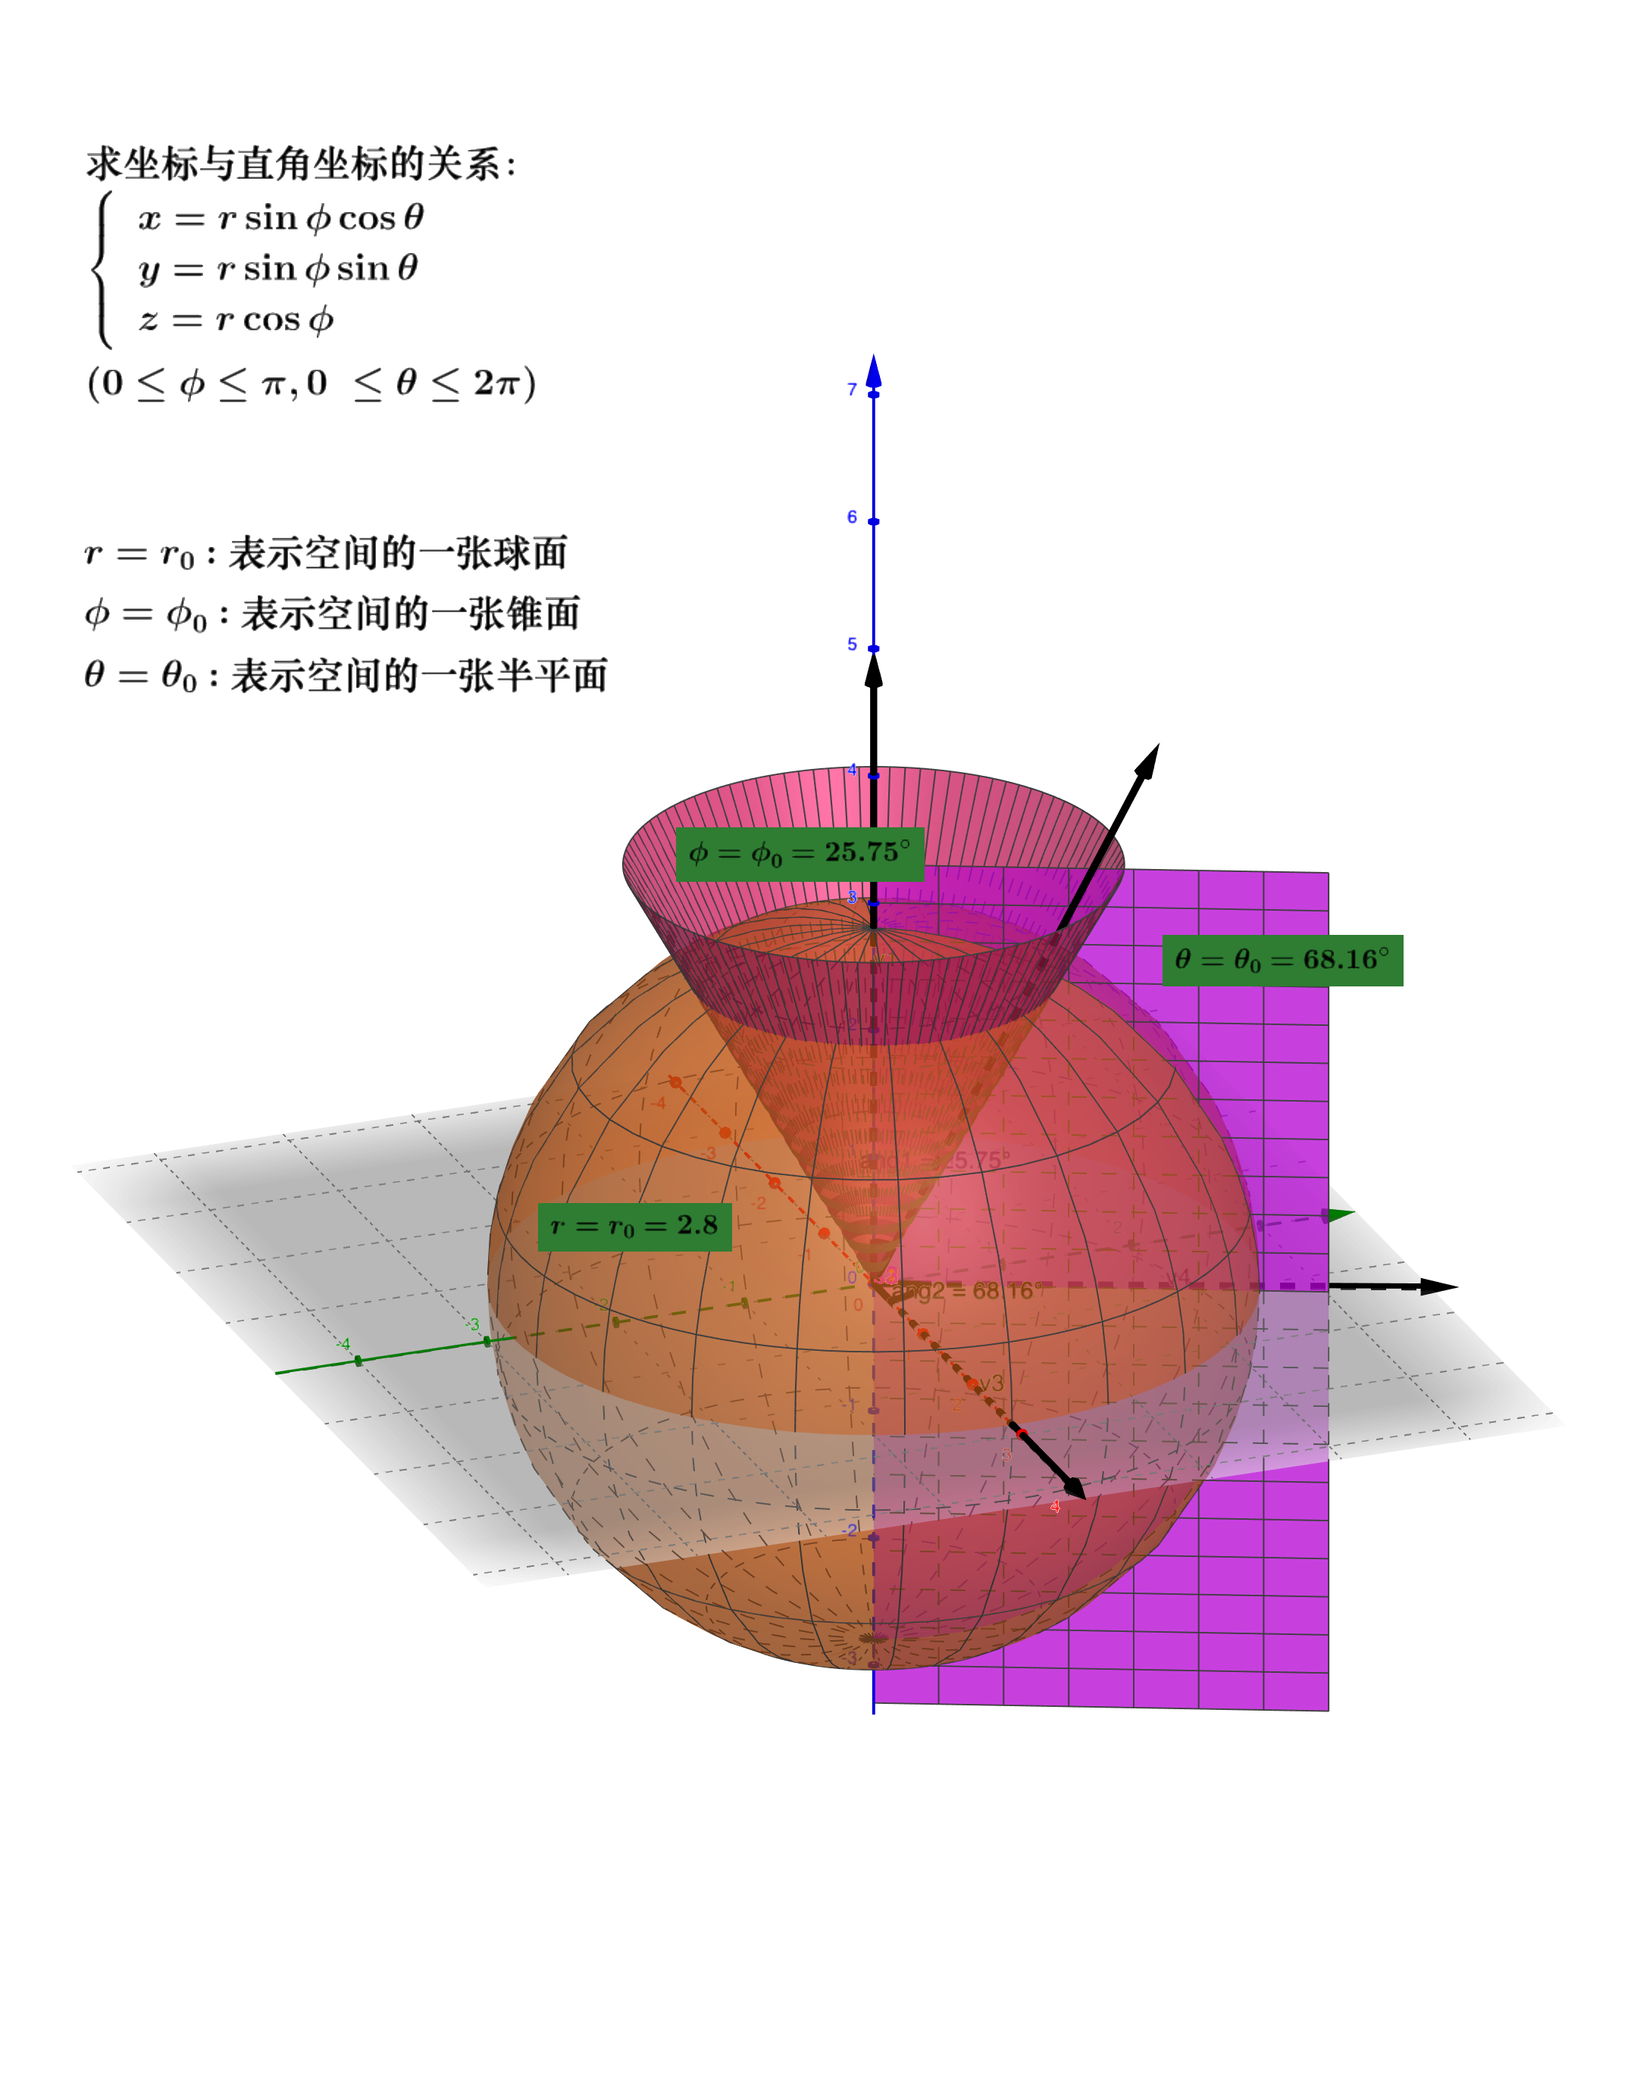
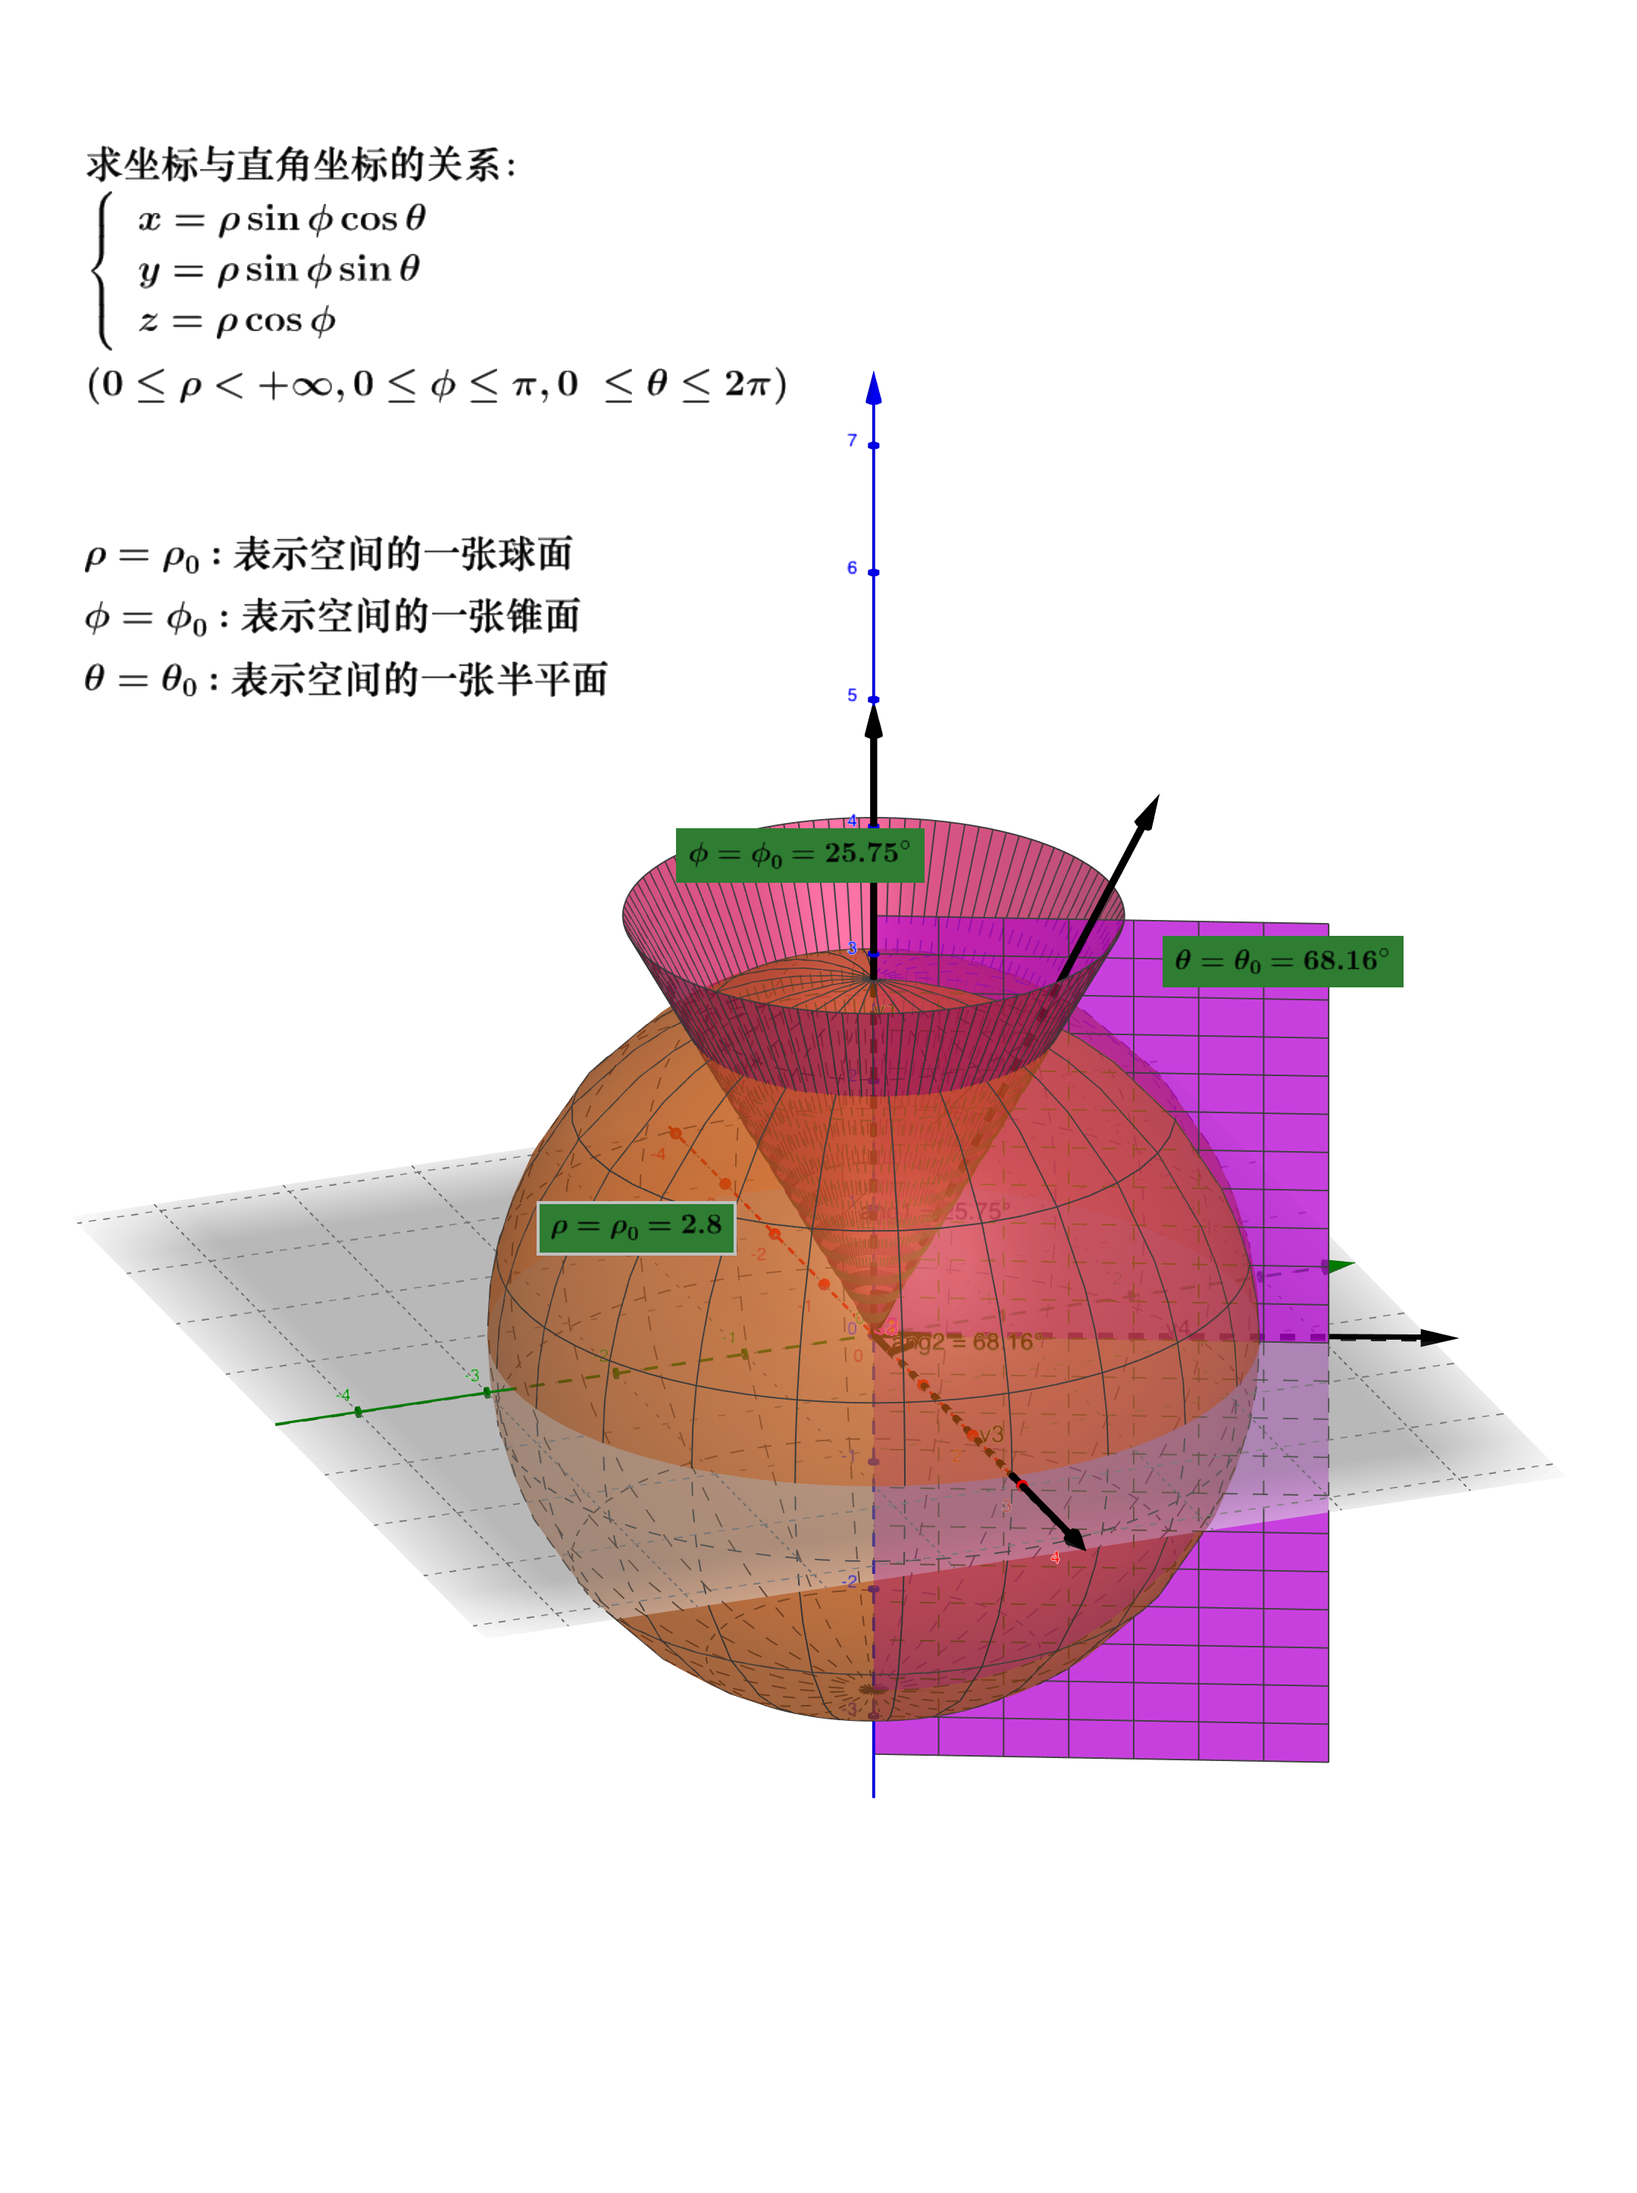
version2

diff --git a/_teaching/mult_integral.md b/_teaching/mult_integral.md
@@ -665,7 +665,17 @@ $$\iiint\limits_{D} f(x,y,z)\,\mathrm{d}V = \int_{\alpha}^{\beta}\int_{r = h_1(\
 </a>
 </center>
 
+---
+**球坐标下的积分元素**
 
+设$f(x,y,z)$定义在空间几何体$D$上，采用$rho = \rho_1,\rho_2,\cdots,\rho_m, \phi = \phi_1,\phi_2, \cdots, \phi_n, \theta = \theta_1, \theta_2, \cdots, \theta_k$分割几何体。体积元素为：$\Delta V_k = \rho_k \sin \phi_k \Delta \rho_k \Delta \rho_k \Delta \theta_k $
+
+
+<center>
+  <a href="https://www.pearsonhighered.com/thomas13einfo/">
+   <img src="./imags/calculus/spherical_coordinate_elem.png" width="400" height="400"/>
+</a>
+</center>
 
 
 
